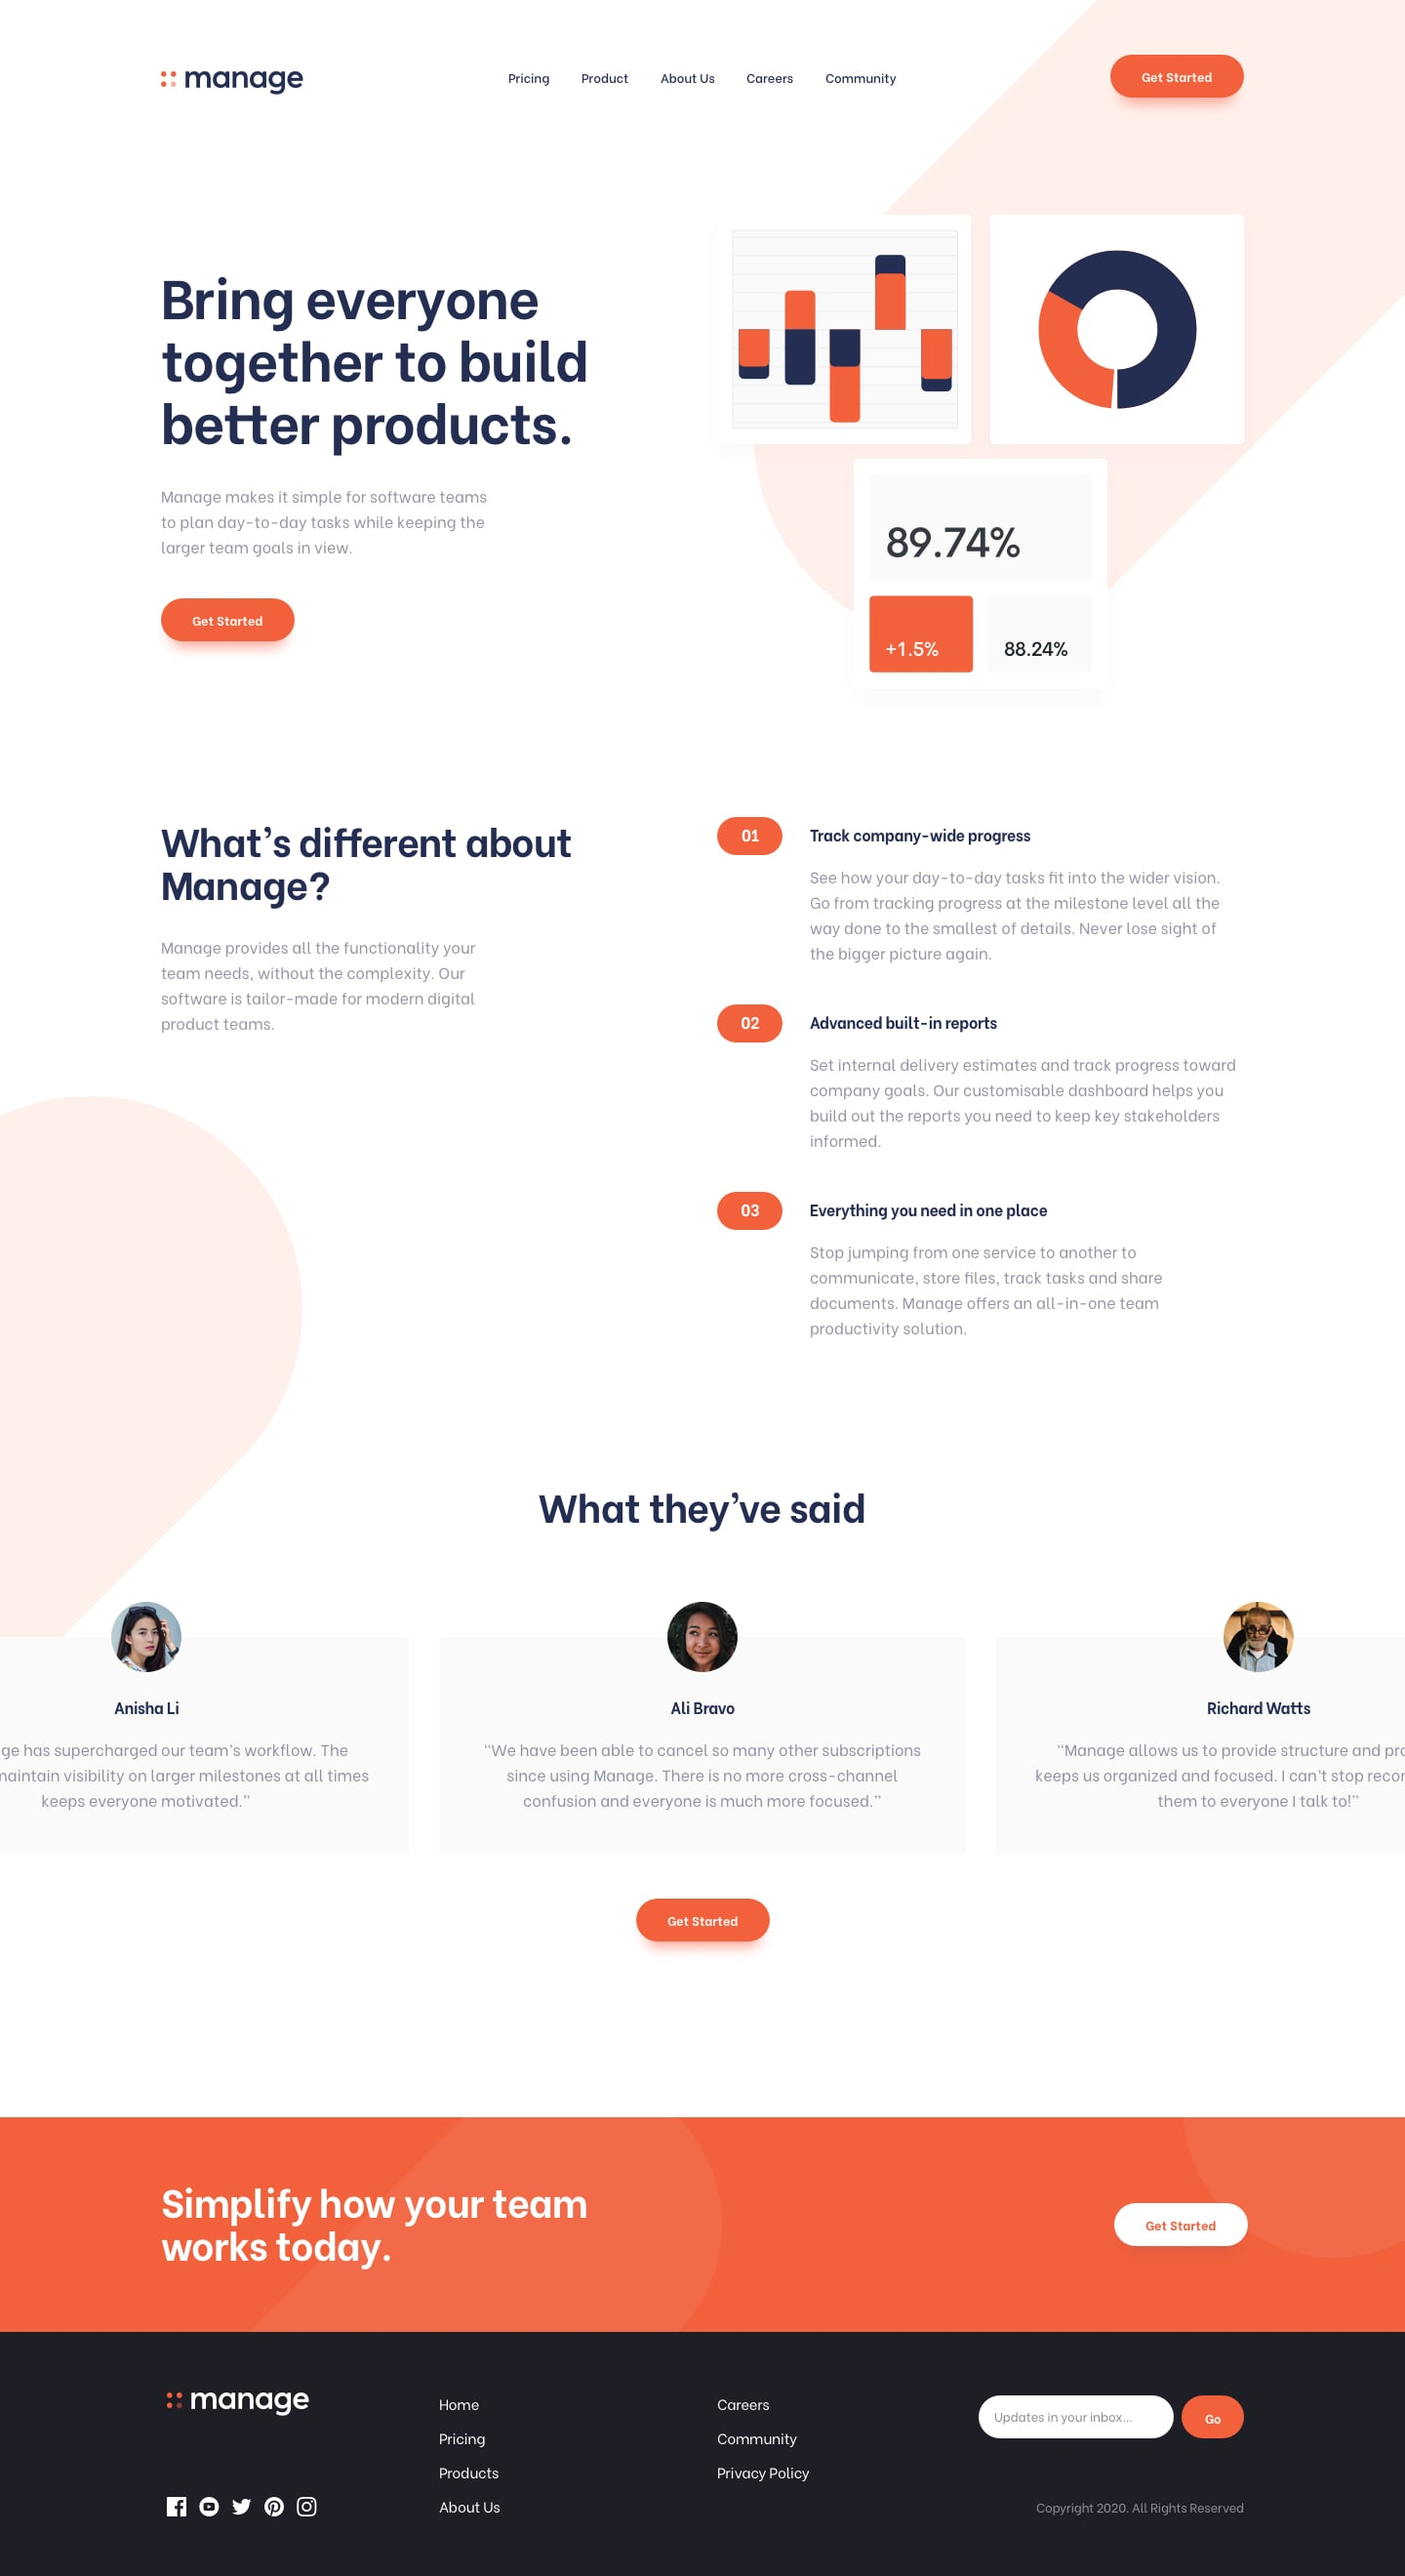
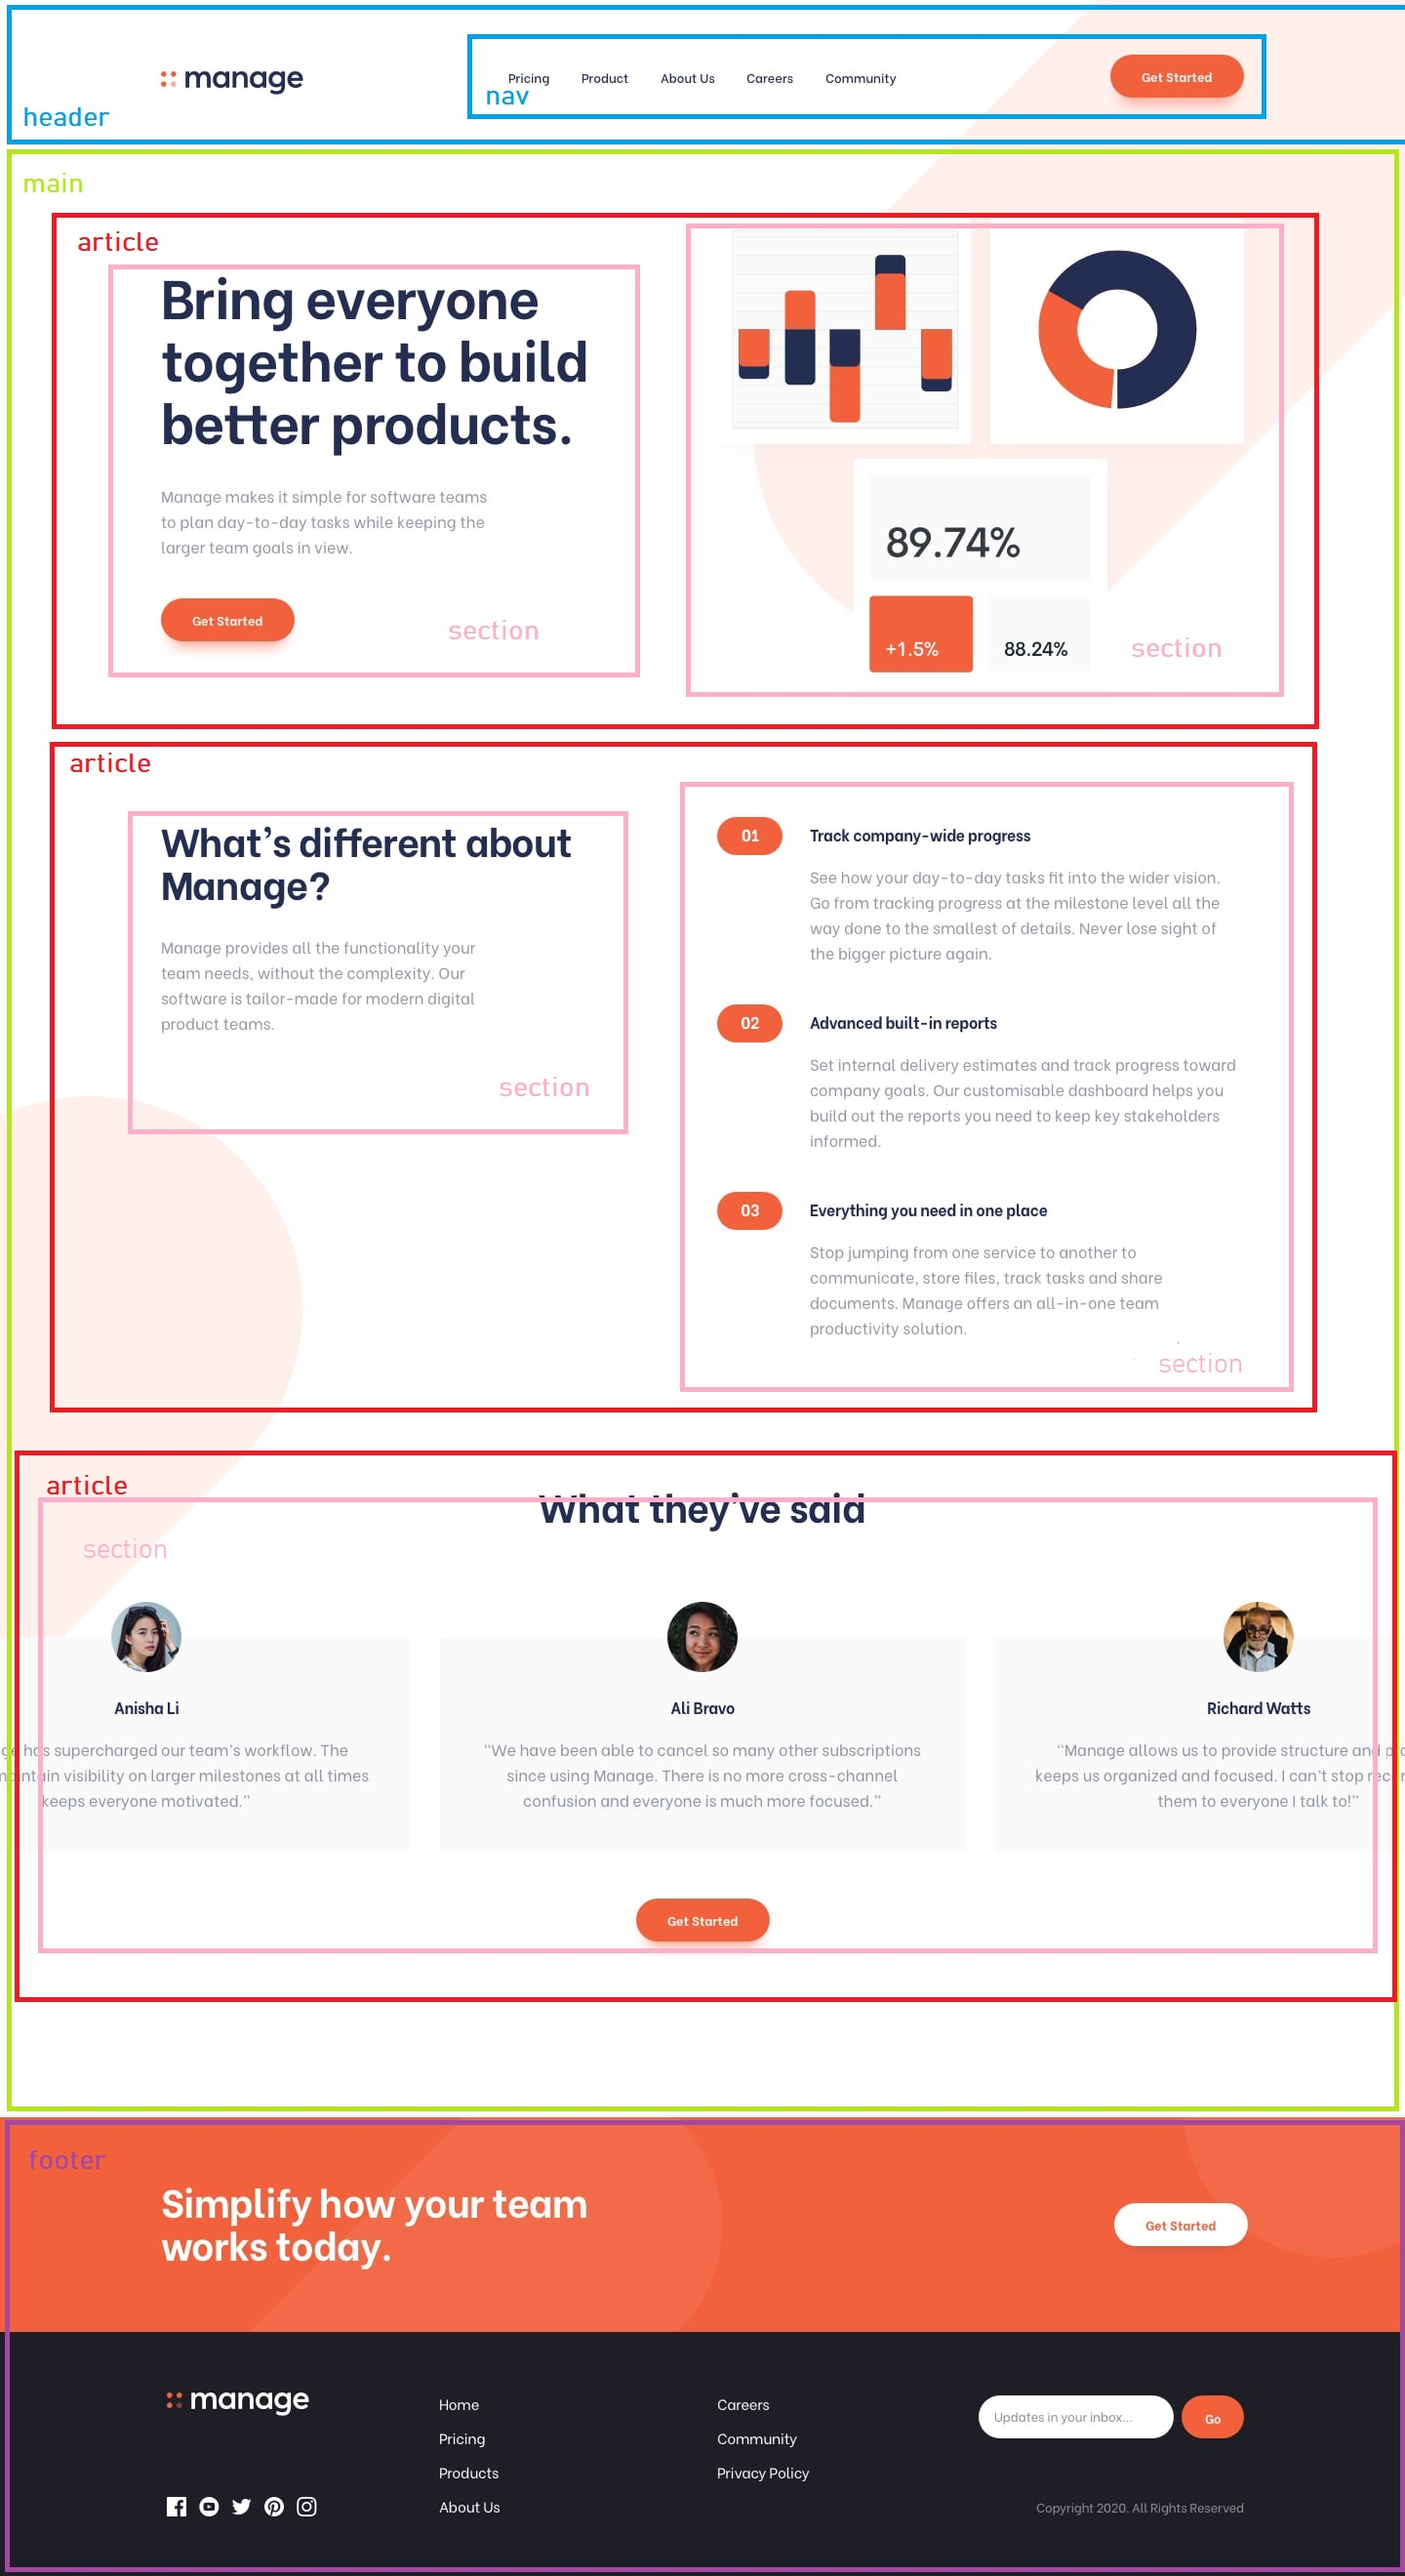
feat: criando arquivos base, estruturando html

Changed region(s): [[0.0, 0.0, 1.0, 1.0]]

diff --git a/index.html b/index.html
@@ -1,27 +1,116 @@
 <!DOCTYPE html>
-<html lang="en">
+<html lang="pt-br">
+
 <head>
   <meta charset="UTF-8">
-  <meta name="viewport" content="width=device-width, initial-scale=1.0"> <!-- displays site properly based on user's device -->
-
+  <meta name="viewport" content="width=device-width, initial-scale=1.0">
   <link rel="icon" type="image/png" sizes="32x32" href="./images/favicon-32x32.png">
-  
   <title>Frontend Mentor | Manage landing page</title>
-
-  <!-- Feel free to remove these styles or customise in your own stylesheet 👍 -->
-  <style>
-    .attribution { font-size: 11px; text-align: center; }
-    .attribution a { color: hsl(228, 45%, 44%); }
-  </style>
 </head>
-<body>
-  <div></div>
 
- 
-  
-  <div class="attribution">
-    Challenge by <a href="https://www.frontendmentor.io?ref=challenge" target="_blank">Frontend Mentor</a>. 
-    Coded by <a href="#">Your Name Here</a>.
-  </div>
+<body>
+
+  <header>
+    <img src="" alt="">
+    <nav>
+      <button></button>
+    </nav>
+  </header>
+
+  <main>
+    <article>
+      <section>
+        <h1></h1>
+        <p></p>
+        <button></button>
+      </section>
+
+      <section>
+        <img src="" alt="">
+      </section>
+    </article>
+
+    <article>
+      <section>
+        <h2></h2>
+        <p></p>
+      </section>
+
+      <section>
+        <div>
+          <span></span>
+        </div>
+        <div>
+          <h4></h4>
+          <p></p>
+        </div>
+
+        <div>
+          <span></span>
+        </div>
+        <div>
+          <h4></h4>
+          <p></p>
+        </div>
+
+        <div>
+          <span></span>
+        </div>
+        <div>
+          <h4></h4>
+          <p></p>
+        </div>
+
+      </section>
+    </article>
+
+    <article>
+      <section>
+        <h2></h2>
+
+        <div>
+          <img src="" alt="">
+          <h4></h4>
+          <p></p>
+        </div>
+
+        <div>
+          <img src="" alt="">
+          <h4></h4>
+          <p></p>
+        </div>
+
+        <div>          
+          <img src="" alt="">
+          <h4></h4>
+          <p></p>
+        </div>
+
+        <button></button>
+
+      </section>
+    </article>
+  </main>
+
+  <footer>
+    <section>
+      <h3></h3>
+      <button></button>
+    </section>
+
+    <section>
+
+      <div>
+        <img src="" alt="">
+        <div></div>
+      </div>
+      <div></div>
+      <div>
+        <input type="text">
+        <button></button>
+        <span></span>
+      </div>
+    </section>
+  </footer>
 </body>
 </html>
